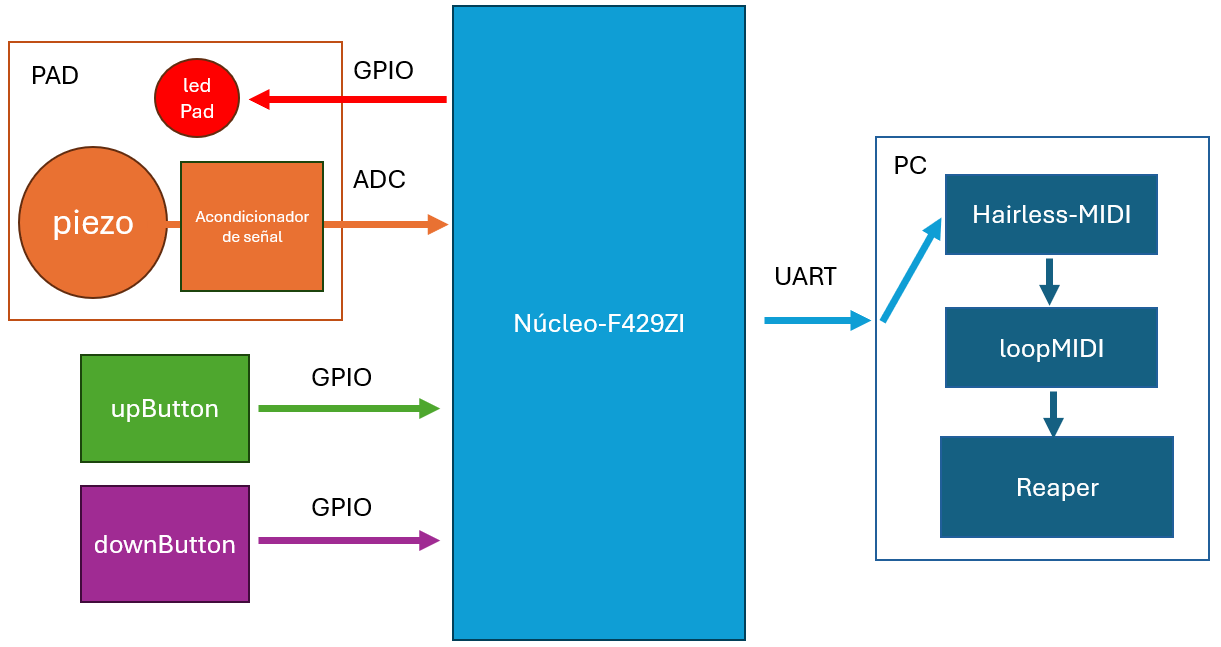
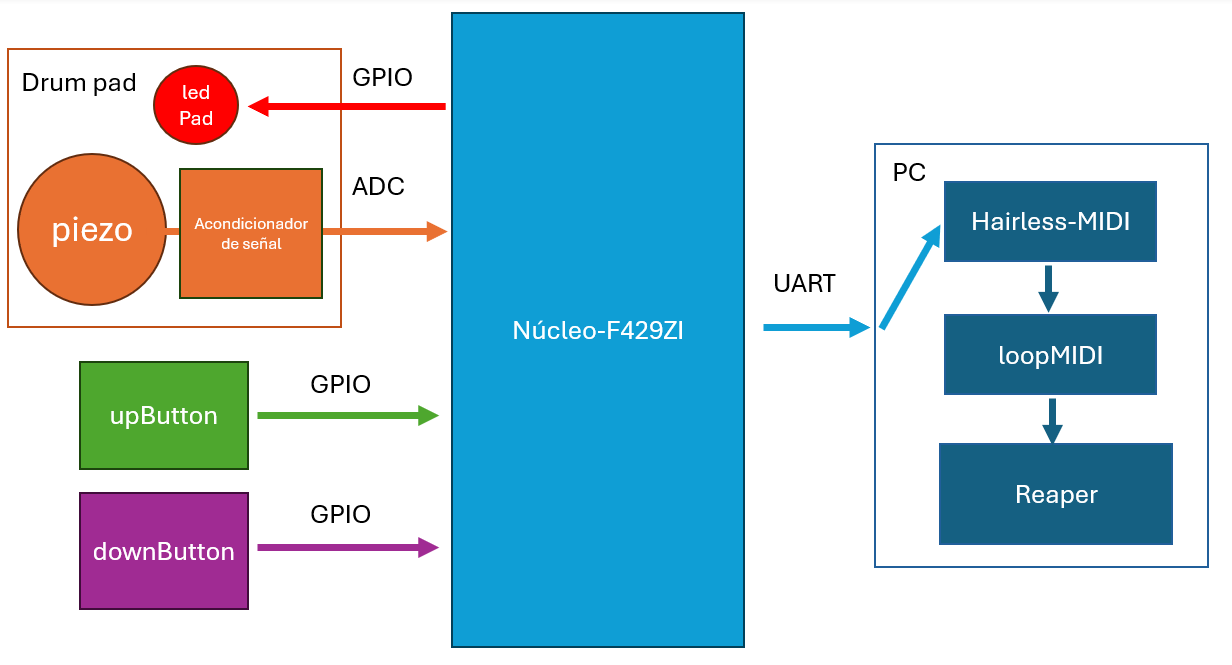
Update README.md

diff --git a/README.md b/README.md
@@ -7,4 +7,6 @@
   
  Dado que el objetivo es que una Estación de Audio Digital (en este caso https://www.reaper.fm/) genere el sonido del insturmeto, es necesario que esos mensajes MIDI, interpretados por el software Hairless-MIDI, sean transmitidos a dicha estación. Aunque tanto Haireless-MIDI como Reaper pueden comprender y procesar mensajes MIDI, no poseen una forma nativa de establecer una conexión directa entre sí. Para solucionar esta limitación, se emplea el software loopMIDI (disponible en https://www.tobias-erichsen.de/software/loopmidi.html) que crea un canal virtual llamado "loopMIDI Port" permitiendo la comunicación entre ambos programas a través mensajes MIDI.
 ### Diagrama en bloques
-![Diagrama en bloques ](https://github.com/ianlesni/TPn-1-MIDI-Drum-Pad-v.0/assets/43219235/6cb57014-cbd8-47d6-8dd8-2f3bea5758b6)
+![Diagrama en bloques ](https://github.com/ianlesni/TPn-1-MIDI-Drum-Pad-v.0/assets/43219235/79b5c3e0-ac47-409f-8339-413e8e71b634)
+#### Drum Pad:
+El Drum pad está coformado por un transductor piezoeléctrico (*piezo*), un circuito (*acondicionador de señal*) y un led (*ledPad*). Al golpear el pad, el transductor piezoelectrico genera una diferencia de potencial propocional a la magnitud de la deformación
